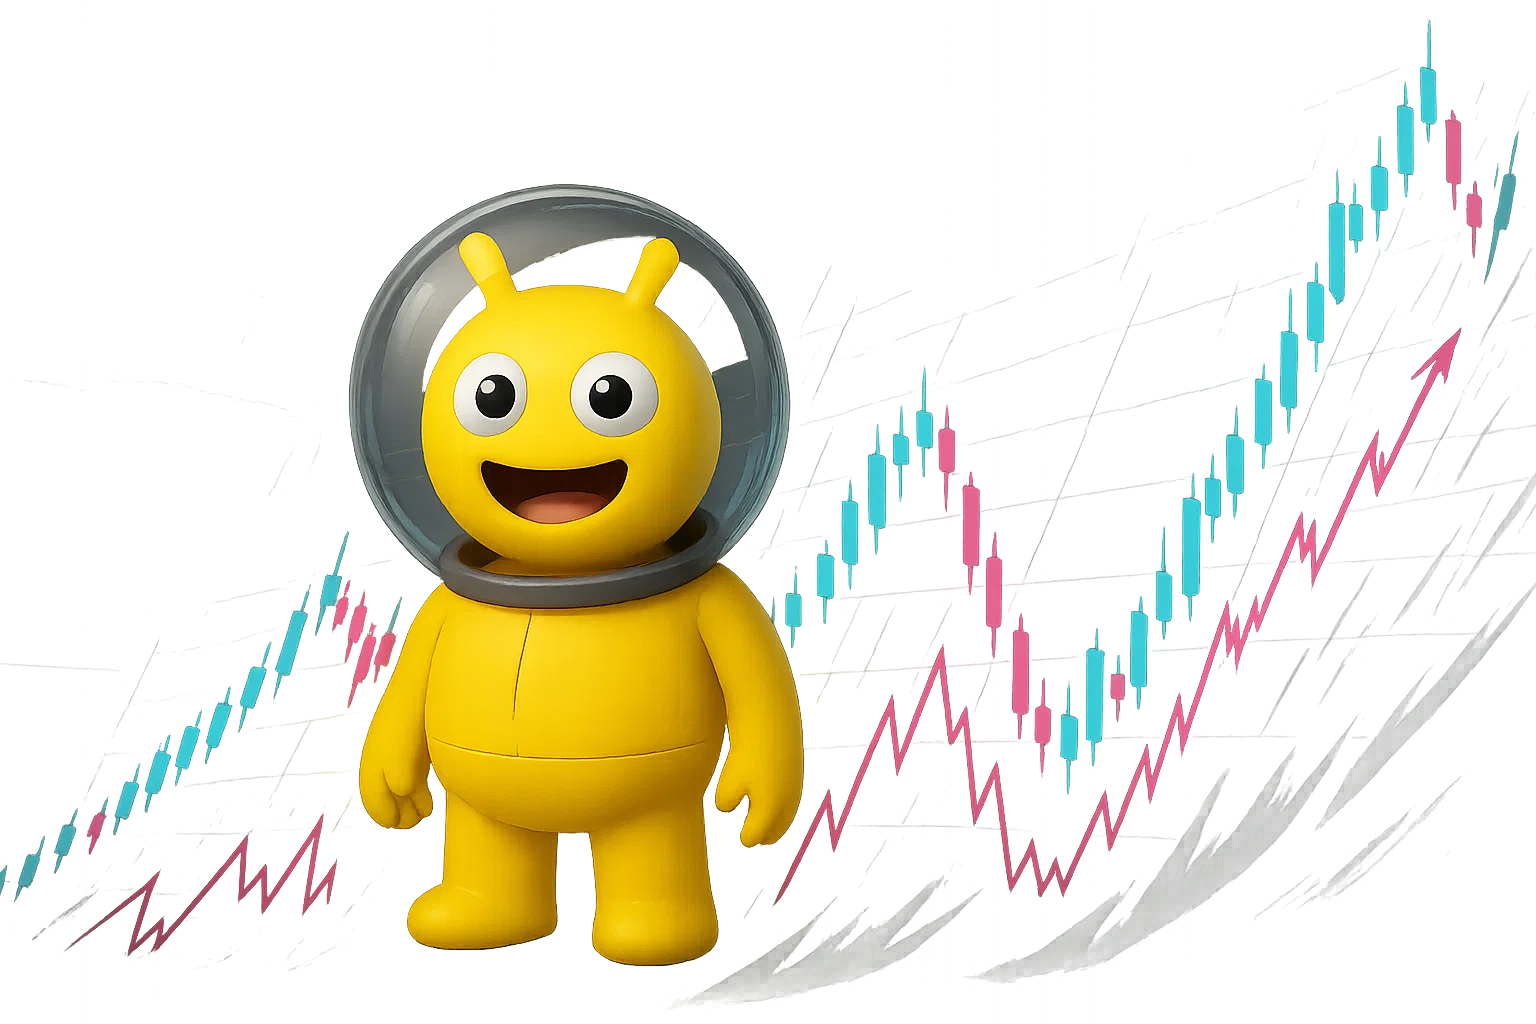
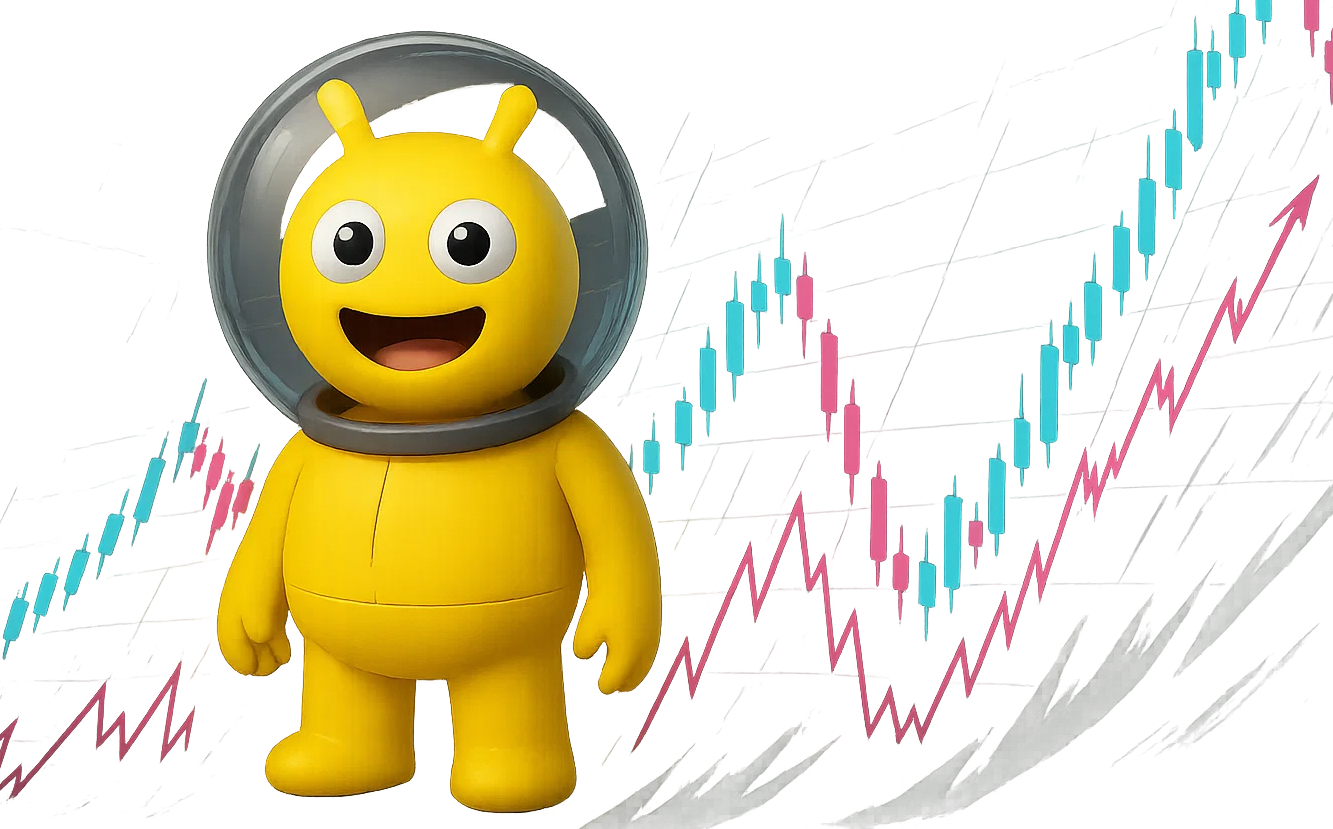
Add files via upload

diff --git a/css/style.css b/css/style.css
@@ -1037,40 +1037,43 @@ h1, p, .nav-bar ul li a, .speech-bubble {
 }
 
 
-/* Updated Hero Section with Text Overlay and Smaller Image */
+/* Hero section with text left, image right (gap 0, image 80%) */
 .hero-section {
-    position: relative;
-    width: 100%;
-    height: auto;
-    padding: 60px 20px;
     display: flex;
-    justify-content: center;
     align-items: center;
-    flex-direction: column;
-    text-align: center;
+    justify-content: center;
+    gap: 0;
+    flex-wrap: wrap;
+    padding: 60px 20px;
+}
+
+.hero-text {
+    flex: 1 1 50%;
+    text-align: left;
+    padding: 20px;
+}
+
+.hero-text h1 {
+    font-size: 2.5rem;
+    margin-bottom: 1rem;
+}
+
+.hero-text p {
+    font-size: 1.25rem;
+    margin-bottom: 1.5rem;
+}
+
+.hero-buttons {
+    display: flex;
+    gap: 15px;
 }
 
 .hero-image {
-    position: relative;
-    width: 80%;
-    max-width: 500px;
+    flex: 1 1 50%;
+    text-align: right;
 }
 
 .hero-image img {
-    width: 100%;
+    width: 80%;
     height: auto;
-    display: block;
-}
-
-.hero-text-overlay {
-    position: absolute;
-    top: 15%;
-    left: 50%;
-    transform: translateX(-50%);
-    color: white;
-    font-size: 2rem;
-    font-weight: bold;
-    text-shadow: 0 0 10px rgba(0,0,0,0.7);
-    width: 100%;
-    padding: 0 10px;
 }

diff --git a/index.html b/index.html
@@ -24,24 +24,21 @@
     </nav>
   </header>
 
-  <section class="hero-section">
-    <div class="hero-content">
-      <h1>Meme. AI. Trading.<br>All in One Wallet</h1>
-      <p>The unprecedented meme coin expert wallet, Meverse</p>
-      <div class="hero-buttons">
-        <button class="btn-primary">Get Started</button>
-        <button class="btn-secondary">Learn More</button>
-      </div>
-    </div>
-    <div class="hero-image">
-    <div class="hero-text-overlay">
-      Meme. AI. Trading.<br>All in One Wallet<br>The unprecedented meme coin expert wallet, Meverse<br><br>
+  
+<section class="hero-section">
+  <div class="hero-text">
+    <h1>Meme. AI. Trading.<br>All in One Wallet</h1>
+    <p>The unprecedented meme coin expert wallet, Meverse</p>
+    <div class="hero-buttons">
       <button class="btn-primary">Get Started</button>
       <button class="btn-secondary">Learn More</button>
     </div>
-      <img src="./images/hero_character_new.webp" alt="Meverse Character">
-    </div>
-  </section>
+  </div>
+  <div class="hero-image">
+    <img src="images/hero_character_new.webp" alt="Hero Character">
+  </div>
+</section>
+
 
   <section class="flow-full-section">
     <img src="./images/flow_full_transparent_highres.png" alt="Flow Full" class="flow-full-image">
